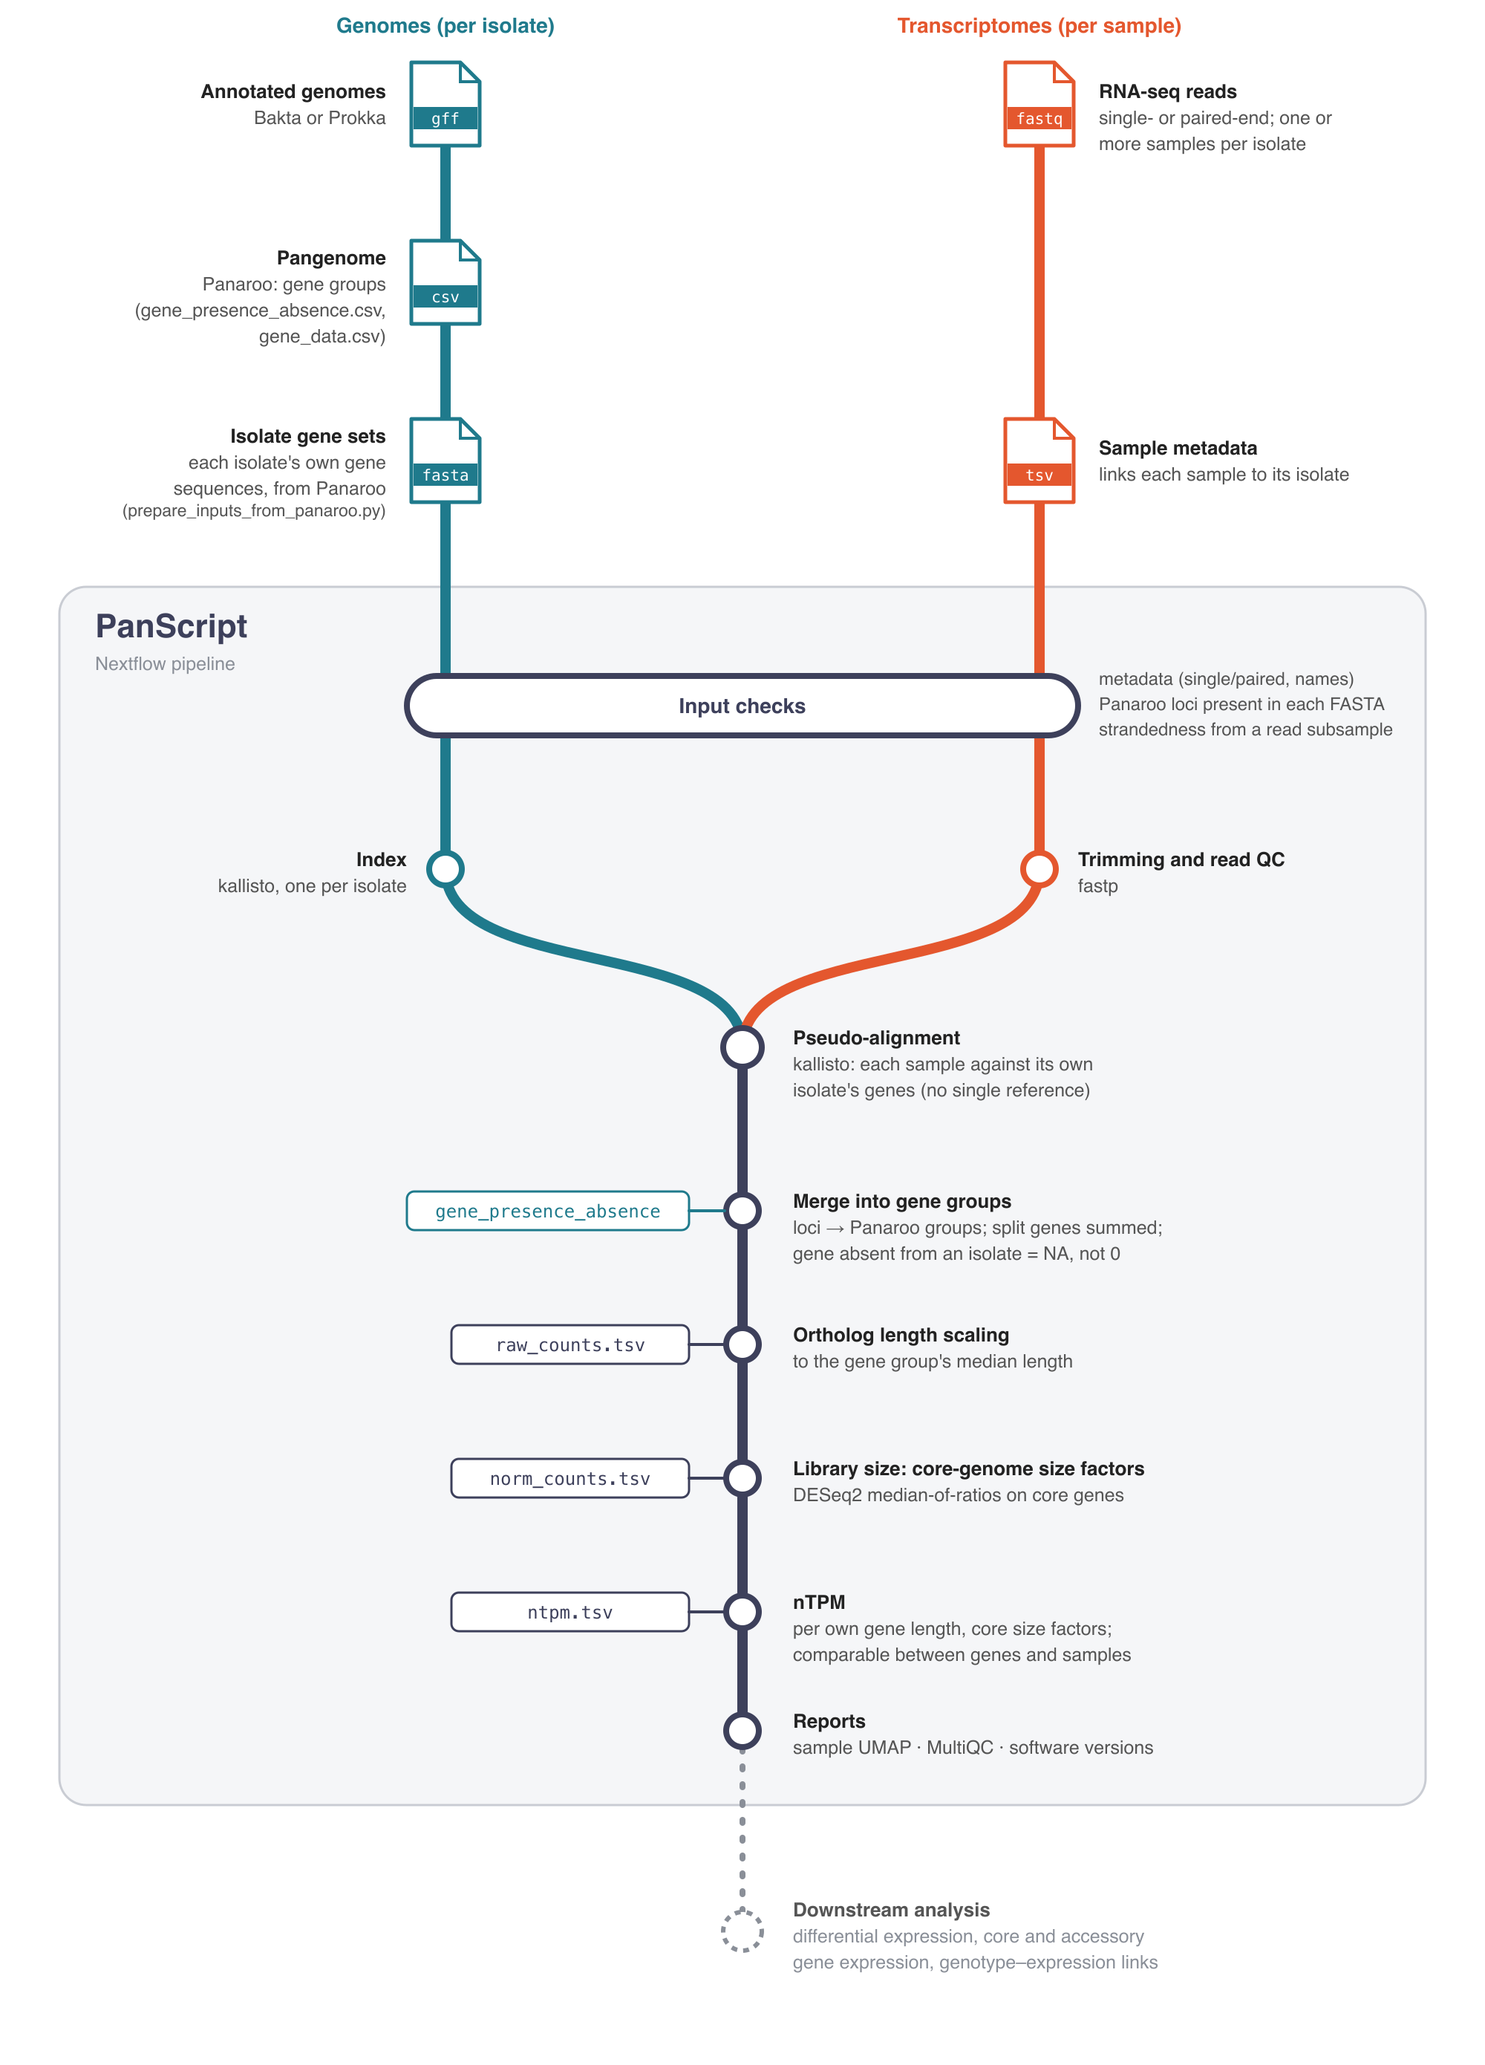
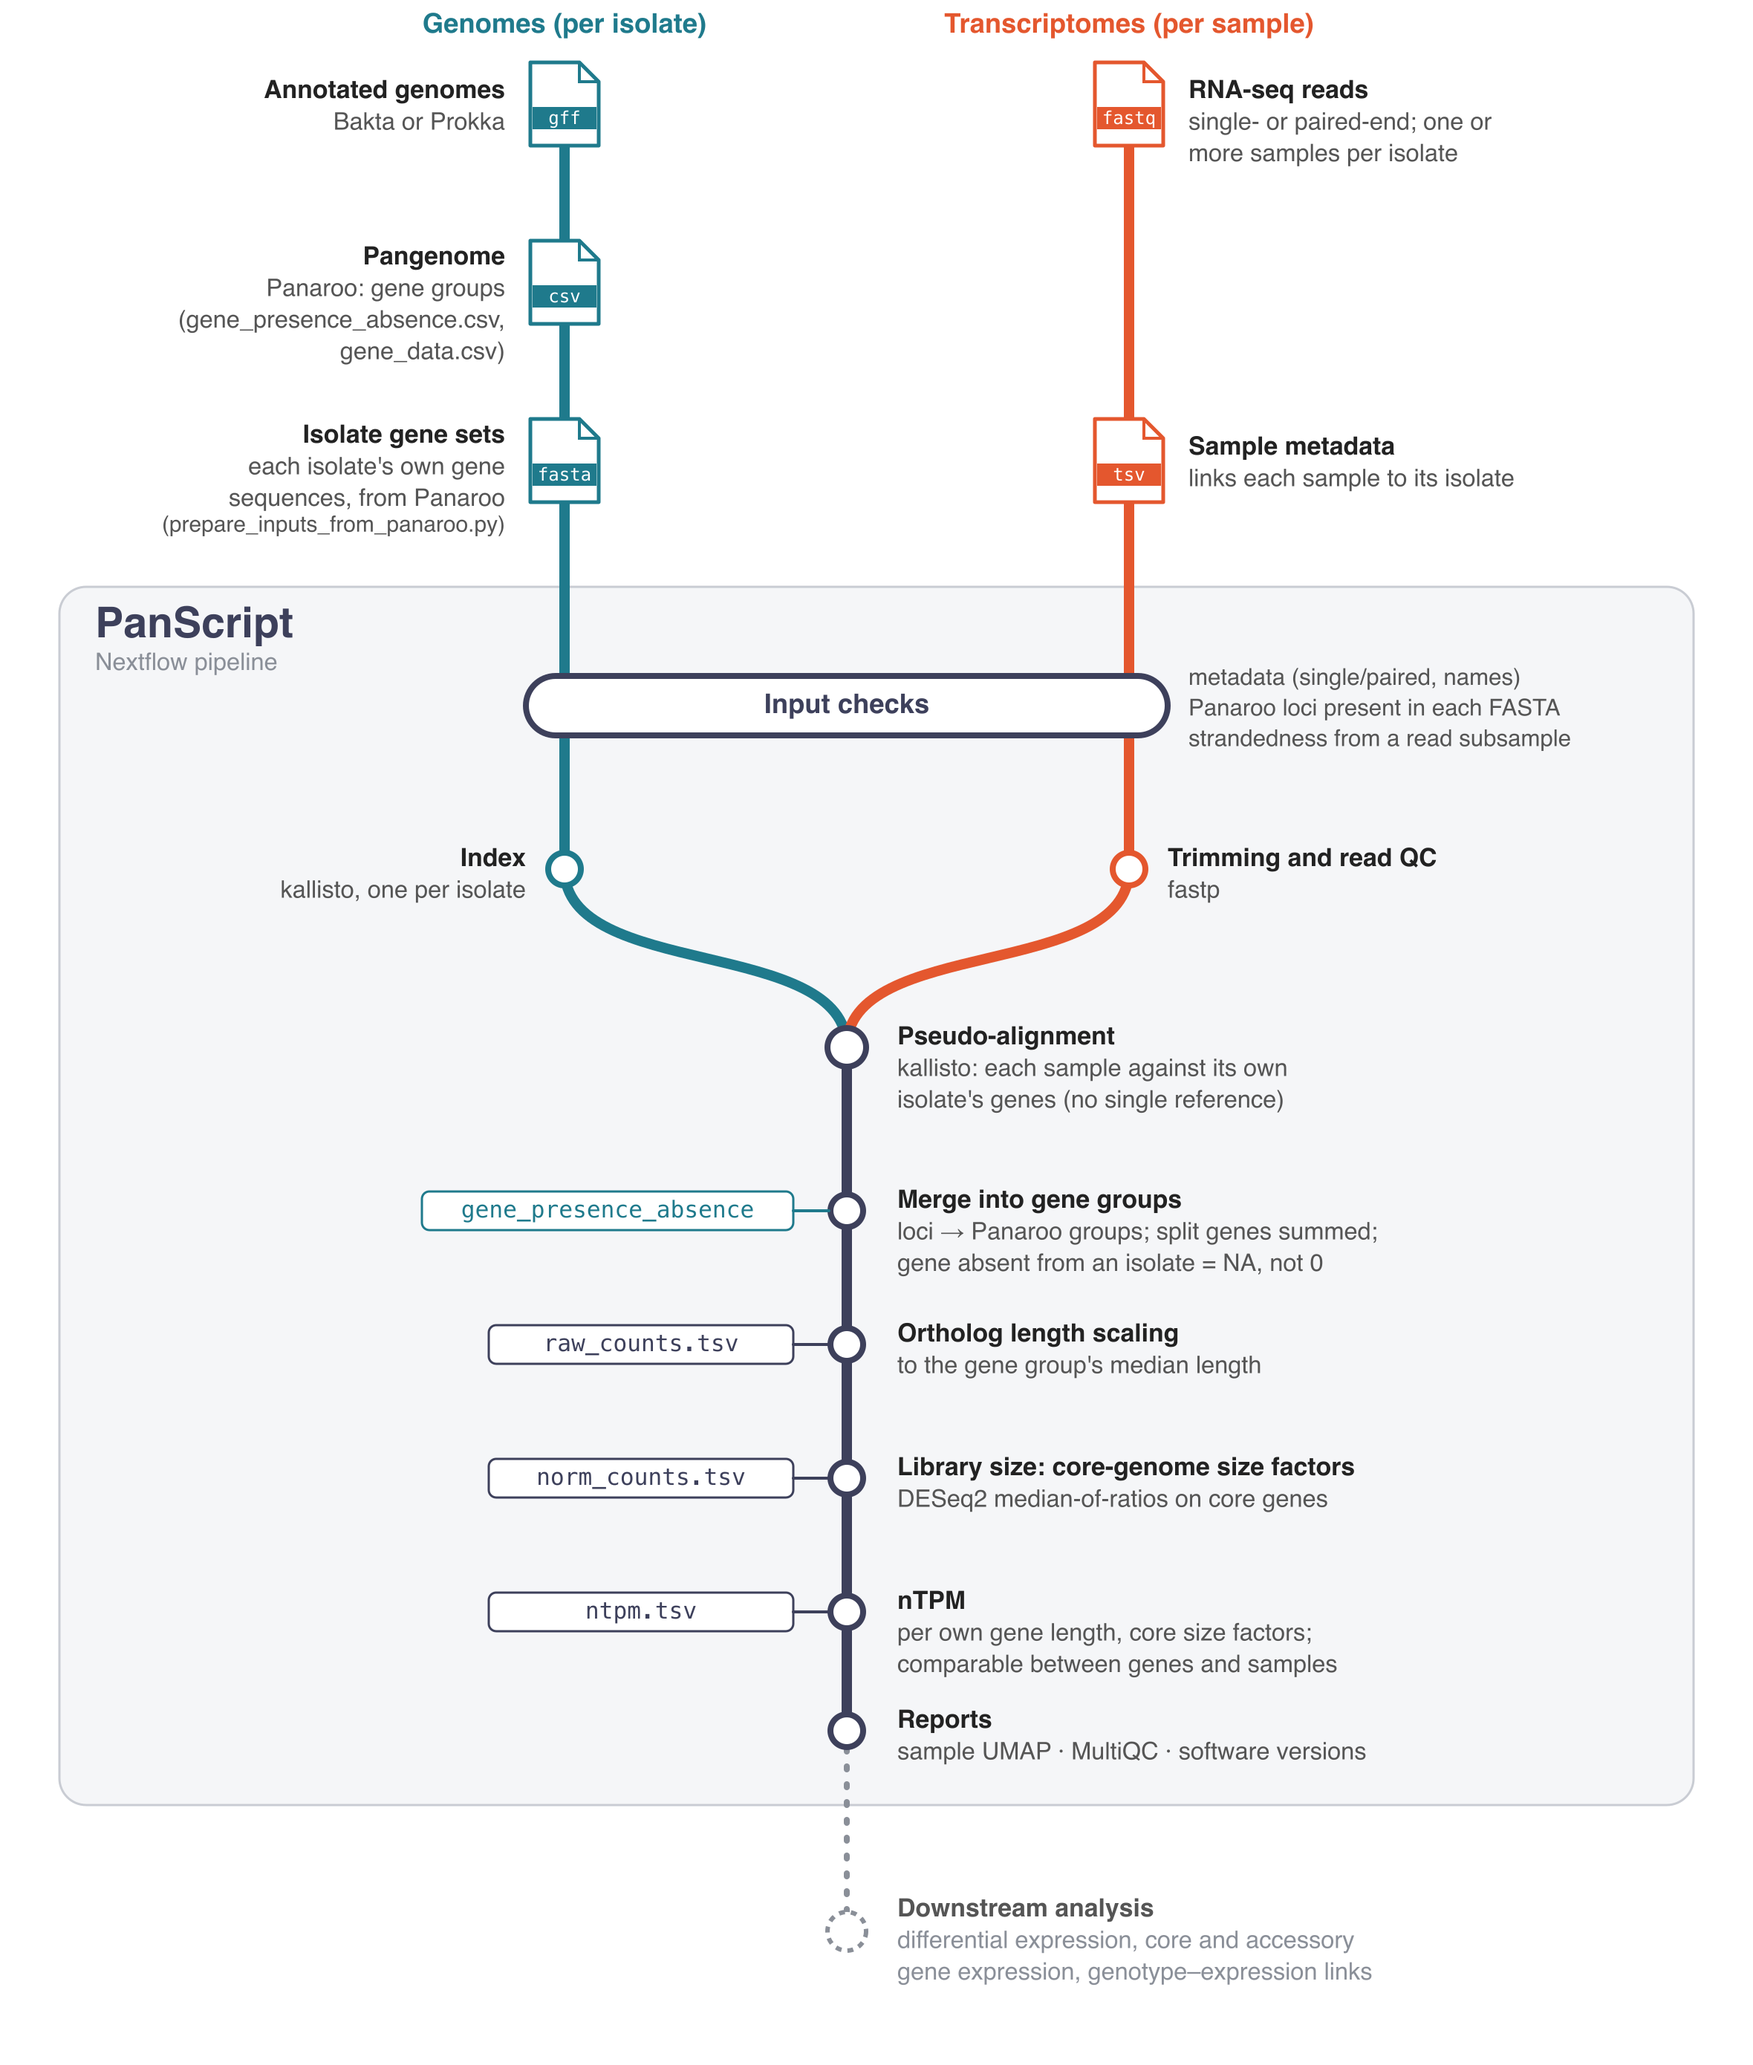
Pipeline diagram: larger text

diff --git a/docs/images/make_pipeline_diagram.py b/docs/images/make_pipeline_diagram.py
@@ -7,9 +7,10 @@ Run from the repo root:
 """
 from pathlib import Path
 
-W, H = 1000, 1390
+W, H = 1180, 1390
+FS = 1.3                             # font scale
 GEN, RNA, MRG, GREY = "#1f7a8c", "#e4572e", "#3d405b", "#8a8f98"
-XL, XR, XM = 300, 700, 500           # genome track, RNA track, merged track
+XL, XR, XM = 380, 760, 570           # genome track, RNA track, merged track
 FONT = "Helvetica, Arial, sans-serif"
 out = []
 
@@ -19,11 +20,12 @@ def add(s):
 
 
 def text(x, y, lines, anchor="start", size=13, weight="normal", colour="#222", mono=False):
+    size = size * FS
     fam = "Menlo, Consolas, monospace" if mono else FONT
     for i, (t, *style) in enumerate(lines):
         w = style[0] if style else weight
         c = style[1] if len(style) > 1 else colour
-        s = style[2] if len(style) > 2 else size
+        s = style[2] * FS if len(style) > 2 else size
         add(f'<text x="{x}" y="{y + i * (s + 5)}" font-family="{fam}" font-size="{s}" '
             f'font-weight="{w}" fill="{c}" text-anchor="{anchor}">{t}</text>')
 
@@ -36,7 +38,7 @@ def file_icon(x, y, label, colour):
         f'stroke="{colour}" stroke-width="2.5" stroke-linejoin="round"/>')
     add(f'<path d="M{x0 + w - f},{y0} v{f} h{f}" fill="none" stroke="{colour}" stroke-width="2"/>')
     add(f'<rect x="{x0 + 1.5}" y="{y0 + 30}" width="{w - 3}" height="15" fill="{colour}"/>')
-    add(f'<text x="{x}" y="{y0 + 41.5}" font-family="Menlo, Consolas, monospace" font-size="10.5" '
+    add(f'<text x="{x}" y="{y0 + 41.5}" font-family="Menlo, Consolas, monospace" font-size="12" '
         f'fill="#fff" text-anchor="middle">{label}</text>')
 
 
@@ -114,7 +116,7 @@ station(XR, Y_IDX, RNA)
 text(XR + 26, Y_IDX - 2, [("Trimming and read QC", "bold"),
                          ("fastp", "normal", "#555", 12.5)])
 
-def output(y, name, colour=MRG, w=160):
+def output(y, name, colour=MRG, w=205):
     """File chip left of a station: an output (dark) or an extra input (teal)."""
     add(f'<rect x="{XM - 36 - w}" y="{y - 13}" width="{w}" height="26" rx="5" fill="#fff" '
         f'stroke="{colour}" stroke-width="1.5"/>')
@@ -132,7 +134,7 @@ station(XM, Y_MRG, MRG)
 text(STEP_X, Y_MRG - 2, [("Merge into gene groups", "bold"),
                          ("loci → Panaroo groups; split genes summed;", "normal", "#555", 12.5),
                          ("gene absent from an isolate = NA, not 0", "normal", "#555", 12.5)])
-output(Y_MRG, "gene_presence_absence", GEN, 190)
+output(Y_MRG, "gene_presence_absence", GEN, 250)
 
 
 station(XM, Y_LEN, MRG)
